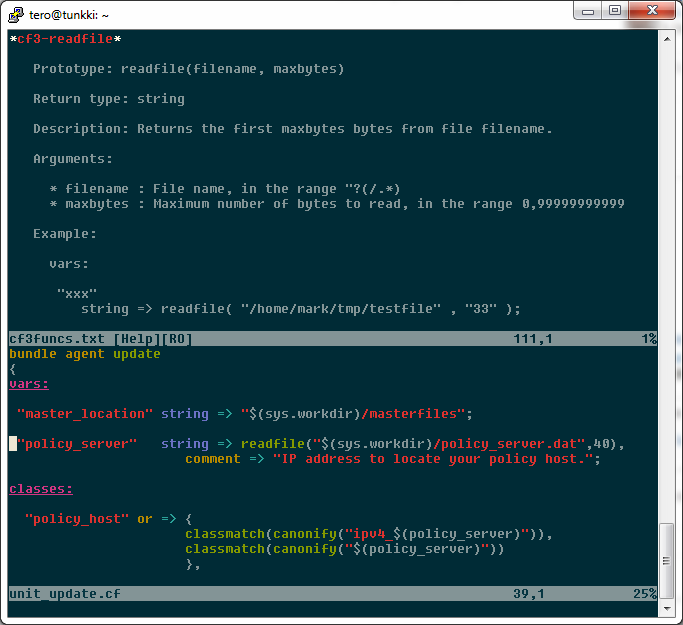
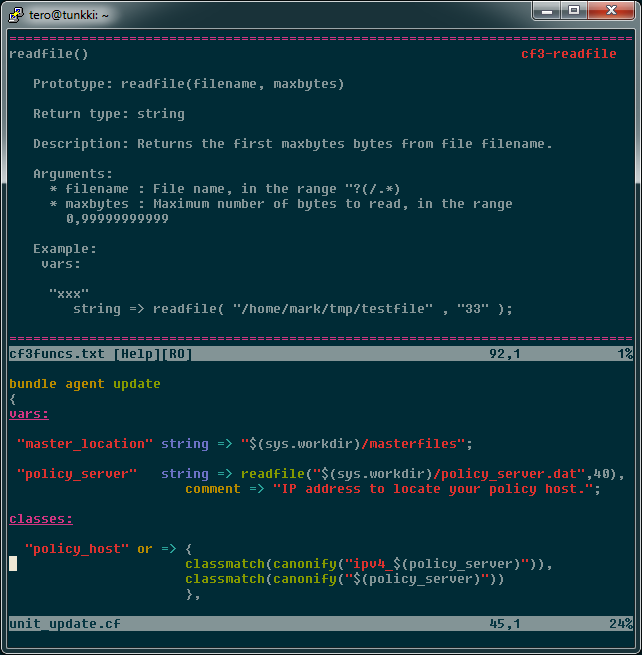
swap the update glue to a python script and make the help a bit prettier

Changed region(s): [[0.0, 0.0, 1.0, 1.0], [0.7788, 0.456, 0.81, 0.4864]]

diff --git a/tools/update_help_contents.py b/tools/update_help_contents.py
@@ -1,0 +1,130 @@
+#!/usr/bin/env python
+# -*- coding: utf-8 -*- 
+
+'''
+Quickhax to update the help files.
+
+To use this, you need to have github.com/cfengine/documentation.git
+cloned to local dir and lynx installed. This uses the repo to check
+what to crawl and get their relevant urls. Then call lynx to dump it.
+'''
+
+import os, sys, re, subprocess
+
+home = os.environ['HOME']
+
+# Tweak these if you need to.
+cf3funcs = home + '/.vim/doc/cf3funcs.txt'
+cf3specialvars = home + '/.vim/doc/cf3specialvars.txt'
+cf3promisetypes = home + '/.vim/doc/cf3promisetypes.txt'
+cf3docs = home + '/git/cfengine-documentation'
+# This is the width of the help text we're outputting.
+help_width = 78
+
+url_prefix = 'https://cfengine.com/docs/3.5'
+help_tag_prefix = 'cf3-'
+
+# Check that we have the docs pulled
+if not os.path.exists(cf3docs + '/.git'):
+    print 'Unable to verify that cfengine/documentation was pulled'
+    print 'Tried to find it from %s/.git' % cf3docs
+    sys.exit()
+
+def find_source_docs(srcdir):
+    mdfiles = []
+    for files in os.listdir(srcdir):
+            if files.endswith('.markdown'):
+                if os.path.exists(srcdir + os.path.splitext(files)[0]):
+                    continue
+                mdfiles.append(files)
+    return mdfiles
+
+def find_url_suffix(file):
+    with open(file) as f:
+        for line in f:
+            regex = re.search('(?<=alias:\s)(\S+)',line)
+            if regex:
+                return regex.group()
+
+def docparser(url,func,multifunc=False):
+    if multifunc:
+        func = func.replace('intrealstring','[int|real|string]')
+        re_start = re.compile(r'^'+re.escape(func)+'$')
+    else:
+        re_start = re.compile(r'^'+func+'$')
+
+    re_stop = re.compile(r'\s+\^\|$')
+    rawdata = lynxdump(url).split('\n')
+    line_start = None
+    line_stop = None
+    for idx, line in enumerate(rawdata):
+        # start the content from our function
+        if re.search(re_start,line):
+            line_start=idx
+        # end the content at the unicode up arrow
+        if re.search(re_stop,line):
+            line_stop=idx
+    if line_start and line_stop:
+        return rawdata[line_start:line_stop]
+    else:
+        print 'Unable to find the required patterns from %s' % url
+        print 'Site layout changed?\n'
+        return
+
+def lynxdump(url):
+    p = subprocess.Popen(['lynx', '-dump', '-display_charset=us-ascii', '-nolist', '-nonumbers', '-width', str(help_width), url], shell=False, stdout=subprocess.PIPE)
+    return p.stdout.read()
+
+def update_help(file,subdir):
+    file = open(file, 'w')
+    dir_suffix = '/reference/'+subdir+'/'
+    srcfiles = find_source_docs(cf3docs + dir_suffix)
+    for func in srcfiles:
+        plain = os.path.splitext(func)[0]
+        print 'Parsing help for %s' % plain
+        url_suffix = find_url_suffix(cf3docs + dir_suffix + func)
+        url = url_prefix + '/' + url_suffix
+        file.write('=' * help_width + '\n')
+        if re.search(r'.*intrealstring.*',plain):
+            content = docparser(url,plain,True)
+            if not content:
+                continue
+            if subdir == 'functions':
+                headerstring = content[0]+'()'
+            else:
+                headerstring = content[0]
+            file.write('%s' % headerstring )
+            fhelp = plain.split('intrealstring')
+            trio = [ 'int', 'real', 'string' ]
+            mfunctags = []
+            del content[0]
+            for var in trio:
+                mfunctags.append(fhelp[0] + var + fhelp[1])
+            for i in mfunctags:
+                help_tag = '{0:>{1}}'.format('*' + help_tag_prefix + i + '*', help_width - len(headerstring))
+                file.write('%s\n' % (help_tag))
+                # zero out the list so alignment holds
+                headerstring = []
+            for i in content:
+                file.write('%s\n' % i)
+        else:
+            content = docparser(url,plain,False)
+            if not content:
+                continue
+            if subdir == 'functions':
+                headerstring = content[0]+'()'
+            else:
+                headerstring = content[0]
+            file.write('%s' % headerstring )
+            # align the vim help *tag* to the right side and use our set witdth.
+            help_tag = '{0:>{1}}'.format('*' + help_tag_prefix + plain + '*', help_width - len(headerstring))
+            file.write('%s\n' % (help_tag))
+            del content[0]
+            for i in content:
+                file.write('%s\n' % i)
+    file.close()
+
+update_help(cf3funcs,'functions')
+update_help(cf3specialvars,'special-variables')
+update_help(cf3promisetypes,'promise-types')
+
